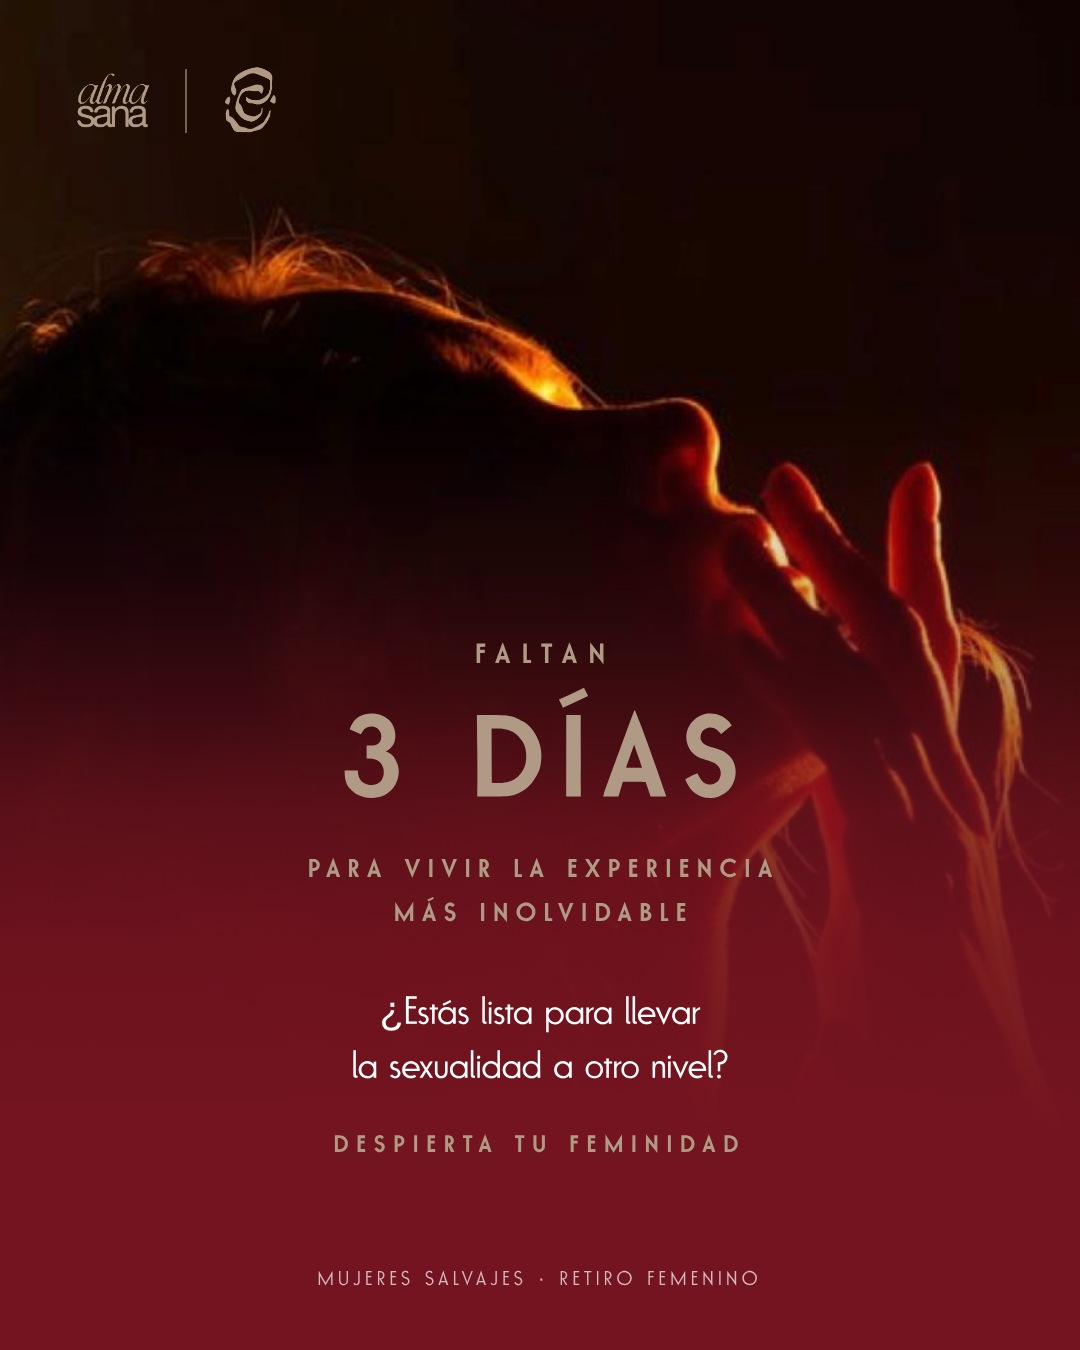
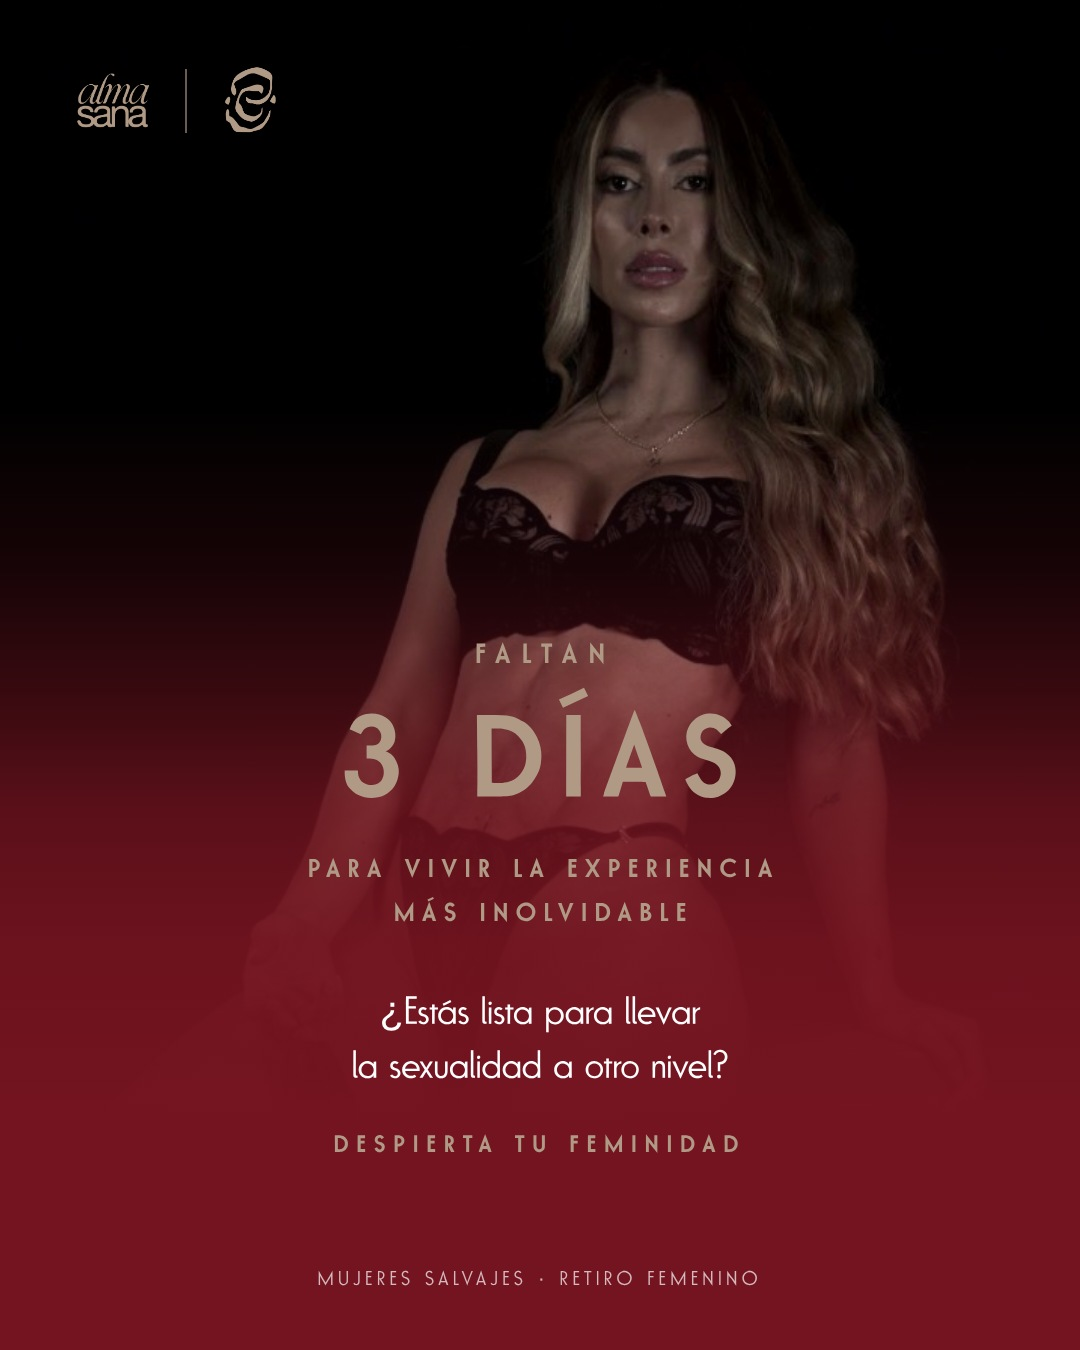
Countdown posts 4-1 with Deisy's photos and day-specific copy
Claude-Session: https://claude.ai/code/session_014KKHDmVPJSKEnC1rY1uwgD

diff --git a/posts/faltan-2-dias.html b/posts/faltan-2-dias.html
@@ -12,15 +12,15 @@ body{width:1080px;height:1350px;overflow:hidden;position:relative;font-family:"P
 .s{font-weight:300;font-size:19px;letter-spacing:.24em;padding-left:.24em;text-transform:uppercase}
 .logos{display:flex;align-items:center;gap:26px}.logos .alma{height:56px}.logos .div{width:1.5px;height:58px}.logos .sym{height:66px}
 body{background:var(--beige);color:#fff}
-.ph{position:absolute;left:0;top:0;bottom:0;width:500px;background:url(foto-3dias.jpg) 72% 40%/cover}
+.ph{position:absolute;left:0;top:0;bottom:0;width:500px;background:url(foto-dia2.jpg) 40% 50%/cover;filter:brightness(1.2)}
 .ph::after{content:"";position:absolute;inset:0;background:linear-gradient(90deg,rgba(116,20,32,0) 60%,rgba(116,20,32,.35))}
 .col{position:absolute;left:500px;right:0;top:0;bottom:0;padding:70px 56px 52px;display:flex;flex-direction:column;align-items:center;text-align:center}
 .mid{margin-top:auto;margin-bottom:auto}
 .k,.p,.d{color:var(--vino)} .n{color:#fff;font-size:92px;letter-spacing:.1em;padding-left:.1em} .p{font-size:20px} .t{font-size:30px;color:#fff} .d{font-size:19px}
-.s{color:var(--vino);font-size:16px;line-height:1.9}
+.s{color:var(--vino);font-size:16px}
 </style></head><body>
 <div class="ph"></div>
 <div class="col"><div class="logos"><img class="alma" src="../brand/logos/logo-vino.png"><span class="div" style="background:rgba(116,20,32,.4)"></span><img class="sym" src="../brand/logos/simbolo-vino.png"></div><div class="mid"><div class="k">Faltan</div><div class="n">2 días</div>
 <div class="p">para vivir la experiencia<br>más inolvidable</div>
-<div class="t">¿Estás lista para llevar<br>la sexualidad a otro nivel?</div>
-<div class="d">Despierta tu feminidad</div></div><div class="s">Mujeres salvajes<br>Retiro femenino</div></div></body></html>
+<div class="t">Tu cuerpo guarda un fuego<br>listo para despertar.</div>
+<div class="d">Honra a tu mujer salvaje</div></div><div class="s">Mujeres salvajes<br>Retiro femenino</div></div></body></html>

diff --git a/posts/falta-1-dia.html b/posts/falta-1-dia.html
@@ -14,7 +14,7 @@ body{width:1080px;height:1350px;overflow:hidden;position:relative;font-family:"P
 body{background:var(--vino);color:#fff;text-align:center}
 .top{position:absolute;top:56px;left:0;right:0;display:flex;justify-content:center}
 .circ{position:absolute;top:170px;left:50%;transform:translateX(-50%);width:440px;height:440px;border-radius:50%;padding:10px;border:2px solid var(--beige)}
-.circ div{width:100%;height:100%;border-radius:50%;background:url(foto-3dias.jpg) 60% 38%/cover}
+.circ div{width:100%;height:100%;border-radius:50%;background:url(foto-dia1.jpg) 50% 12%/150% auto no-repeat;background-color:#111}
 .txt{position:absolute;left:80px;right:80px;top:680px}
 .k,.n,.p,.d{color:var(--beige)} .n{font-size:120px;margin-top:22px} .t{font-size:34px;margin-top:38px}
 .s{position:absolute;bottom:46px;left:0;right:0;color:rgba(255,255,255,.7)}
@@ -23,6 +23,6 @@ body{background:var(--vino);color:#fff;text-align:center}
 <div class="circ"><div></div></div>
 <div class="txt"><div class="k">Falta</div><div class="n">1 día</div>
 <div class="p">para vivir la experiencia<br>más inolvidable</div>
-<div class="t">¿Estás lista para llevar<br>la sexualidad a otro nivel?</div>
-<div class="d">Despierta tu feminidad</div></div>
+<div class="t">Mañana nos encontramos.<br>Trae tu corazón abierto.</div>
+<div class="d">Te espero, mujer salvaje</div></div>
 <div class="s">Mujeres salvajes · Retiro femenino</div></body></html>

diff --git a/posts/faltan-4-dias.html b/posts/faltan-4-dias.html
@@ -14,7 +14,7 @@ body{width:1080px;height:1350px;overflow:hidden;position:relative;font-family:"P
 body{background:var(--claro);color:var(--vino);text-align:center}
 .top{position:absolute;top:56px;left:0;right:0;display:flex;justify-content:center}
 .arch{position:absolute;top:170px;left:50%;transform:translateX(-50%);width:460px;height:560px;border-radius:230px 230px 0 0;overflow:hidden}
-.arch div{width:100%;height:100%;background:url(foto-3dias.jpg) 60% 40%/cover}
+.arch div{width:100%;height:100%;background:url(foto-dia4.jpg) 50% 30%/cover;filter:brightness(1.25)}
 .txt{position:absolute;left:80px;right:80px;top:770px}
 .k,.p,.d{color:var(--beige)} .n{font-size:96px;margin-top:22px} .t{margin-top:34px;font-size:32px} .d{margin-top:28px}
 .s{position:absolute;bottom:44px;left:0;right:0;color:var(--beige)}
@@ -23,6 +23,6 @@ body{background:var(--claro);color:var(--vino);text-align:center}
 <div class="arch"><div></div></div>
 <div class="txt"><div class="k">Faltan</div><div class="n">4 días</div>
 <div class="p">para vivir la experiencia<br>más inolvidable</div>
-<div class="t">¿Estás lista para llevar<br>la sexualidad a otro nivel?</div>
-<div class="d">Despierta tu feminidad</div></div>
+<div class="t">Empieza a preparar tu cuerpo,<br>tu corazón y tu intención.</div>
+<div class="d">Prepárate para despertar</div></div>
 <div class="s">Mujeres salvajes · Retiro femenino</div></body></html>

diff --git a/posts/faltan-3-dias.html b/posts/faltan-3-dias.html
@@ -5,7 +5,7 @@
 :root{--vino:#741420;--beige:#b09a86}
 *{margin:0;padding:0;box-sizing:border-box}
 body{width:1080px;height:1350px;overflow:hidden;position:relative;background:var(--vino);font-family:"PenGram",sans-serif;color:#fff}
-.photo{position:absolute;inset:0;background:url(foto-3dias.jpg) 62% 30%/cover no-repeat}
+.photo{position:absolute;inset:0;background:url(foto-dia3.jpg) 50% 8%/cover no-repeat;filter:brightness(1.2)}
 .shade{position:absolute;inset:0;background:linear-gradient(180deg,rgba(116,20,32,0) 30%,rgba(116,20,32,.2) 42%,rgba(116,20,32,.5) 52%,rgba(116,20,32,.78) 60%,rgba(116,20,32,.93) 70%,#741420 84%)}
 .logos{position:absolute;top:64px;left:72px;display:flex;align-items:center;gap:30px}
 .logos .alma{height:62px}.logos .div{width:1.5px;height:64px;background:rgba(176,154,134,.6)}.logos .sym{height:74px}
